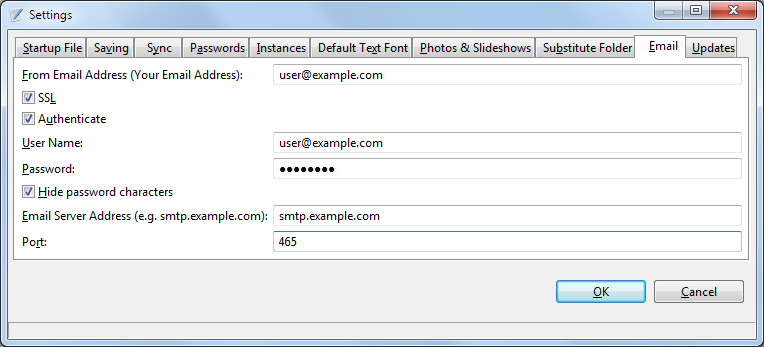
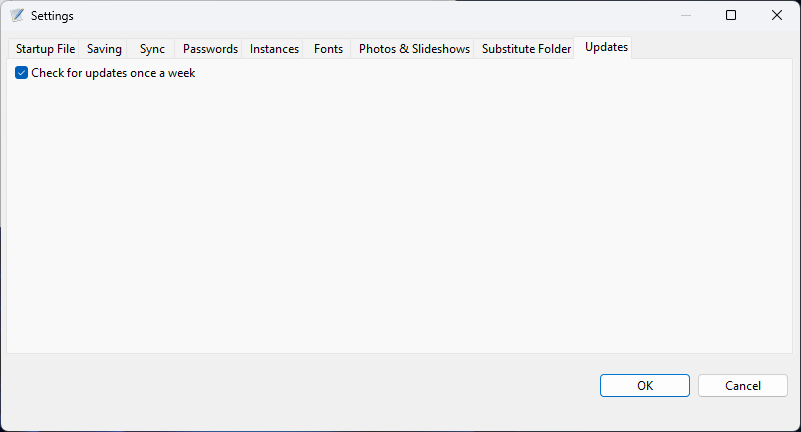
Updates to on-line help content.

diff --git a/Java Vault/Vault/Help/Dialogs_SettingsDialog.html b/Java Vault/Vault/Help/Dialogs_SettingsDialog.html
@@ -174,61 +174,18 @@
 				Press this button to specify the substitute photo and file:/// URLs folder. 
 			</div>
 		</div>
-		<div class="DialogFields">
-			<div class="DialogFieldsHeader">
-				Dialog Box Fields and Buttons (Email Tab):
-			</div>
-			<img class="DialogImage" src="artwork/SettingsDialogTab7.png" alt="Options / Settings Dialog (Email Tab)" />
-			<div class="DialogFieldLabel">
-				From Email Address
-			</div>
-			<div class="DialogFieldText">
-				Specify the sender's email address that will be used when Vault 3 sends email.  
-			</div>
-			<div class="DialogFieldLabel">
-				SSL
-			</div>
-			<div class="DialogFieldText">
-				Specify that email authentication use Secure Sockets Layer (SSL). This setting is recommended.	  
-			</div>
-			<div class="DialogFieldLabel">
-				Authenticate
-			</div>
-			<div class="DialogFieldText">
-				Specifies that a login is required. This setting is recommended.	  
-			</div>
-			<div class="DialogFieldLabel">
-				User Name
-			</div>
-			<div class="DialogFieldText">
-				The user name that you use to access your email. This is often the same as your email address.
-			</div>
-			<div class="DialogFieldLabel">
-				Password
-			</div>
-			<div class="DialogFieldText">
-				The password that you use to access your email.	  
-			</div>
-			<div class="DialogFieldLabel">
-				Hide password characters
-			</div>
-			<div class="DialogFieldText">
-				Check this checkbox to ensure that no-one can read your password on the screen.  
-			</div>
-			<div class="DialogFieldLabel">
-				Email Server Address
-			</div>
-			<div class="DialogFieldText">
-				Specify your Internet Service Provider's email server address. The server address is typically smtp.{domain}. For example, smtp.comcast.net. You can 
-				ask your ISP for this information.  
-			</div>
-			<div class="DialogFieldLabel">
-				Port
-			</div>
-			<div class="DialogFieldText">
-				Specify your Internet Service Provider's SMTP port number. The default value is 25. Other port numbers that may work: 465 (if SSL is enabled), or 587 (if SSL is not enabled).  
-			</div>
-		</div>
+        <div class="DialogFields">
+            <div class="DialogFieldsHeader">
+                Dialog Box Fields and Buttons (Updates Tab):
+            </div>
+            <img class="DialogImage" src="artwork/SettingsDialogTab7.png" alt="Options / Settings Dialog (Updates Tab)" />
+            <div class="DialogFieldLabel">
+                Check for updates once a week
+            </div>
+            <div class="DialogFieldText">
+                Check this checkbox to have Vault 3 check for updates every week.
+            </div>
+        </div>
 		<div class="DialogFields">
 			<div class="DialogFieldsHeader">
 				Dialog Box Fields and Buttons:

diff --git a/Java Vault/Vault/src/mainPackage/MainApplicationWindow.java b/Java Vault/Vault/src/mainPackage/MainApplicationWindow.java
@@ -1134,27 +1134,27 @@ public class MainApplicationWindow extends ApplicationWindow {
 
 		return cancelled;
 	}
-	
-	@Override
-	public boolean close() {
-		boolean result = true;
 
-            final int[] weights = sashForm.getWeights();
-            Globals.getPreferenceStore().setValue(PreferenceKeys.SashWidthLeft, weights[0]);
-            Globals.getPreferenceStore().setValue(PreferenceKeys.SashWidthRight, weights[1]);
+    @Override
+    public boolean close() {
+        boolean result = true;
 
-		boolean cancelled = saveCurrentDocument();
-		
-		if (!cancelled) {
-			if (singletonApplication != null) {
-				singletonApplication.releaseSocket();
-			}
-			
-			result = super.close();
-		}
+        final int[] weights = sashForm.getWeights();
+        Globals.getPreferenceStore().setValue(PreferenceKeys.SashWidthLeft, weights[0]);
+        Globals.getPreferenceStore().setValue(PreferenceKeys.SashWidthRight, weights[1]);
 
-		return result;
-	}
+        boolean cancelled = saveCurrentDocument();
+
+        if (!cancelled) {
+            if (singletonApplication != null) {
+                singletonApplication.releaseSocket();
+            }
+
+            result = super.close();
+        }
+
+        return result;
+    }
 	
 	/**
 	 * Ensure that main window is visible and display a "this program is already running" message.
